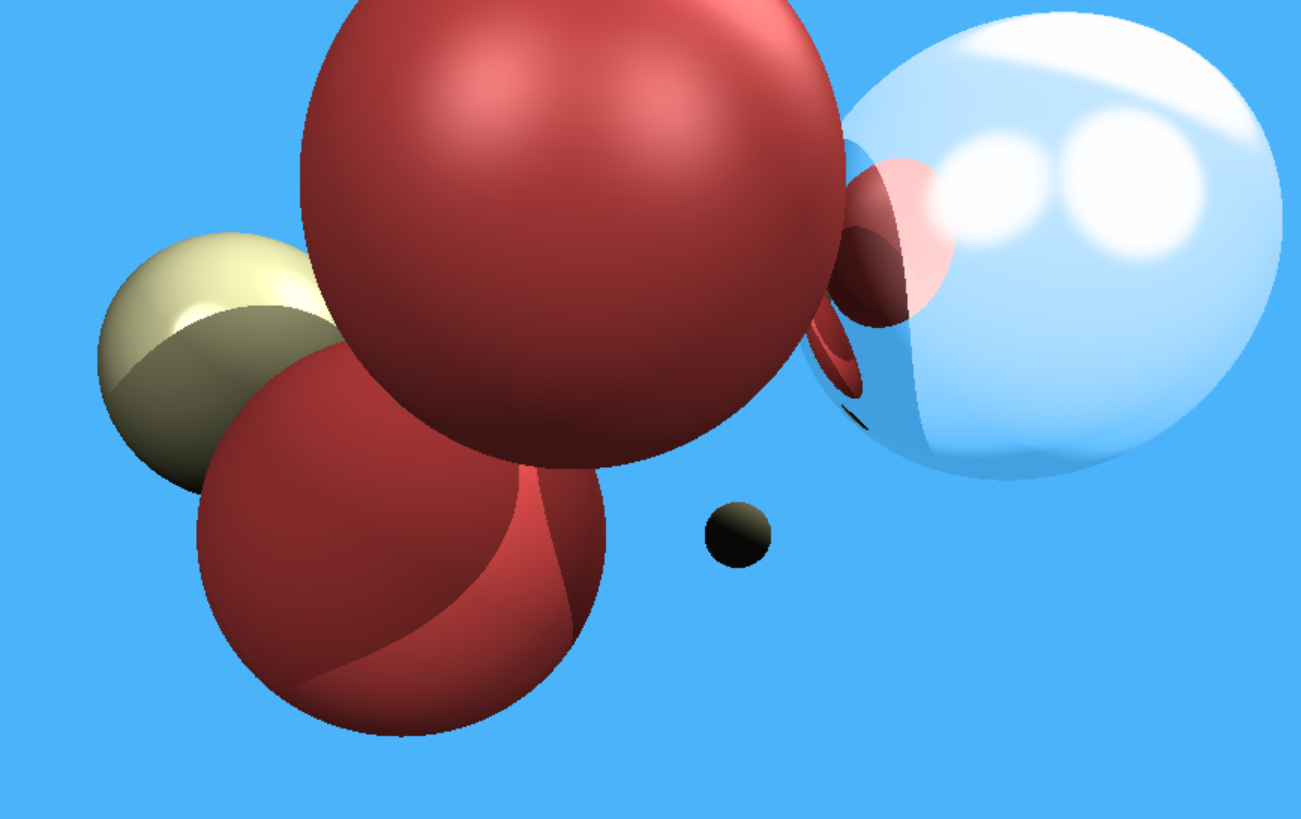
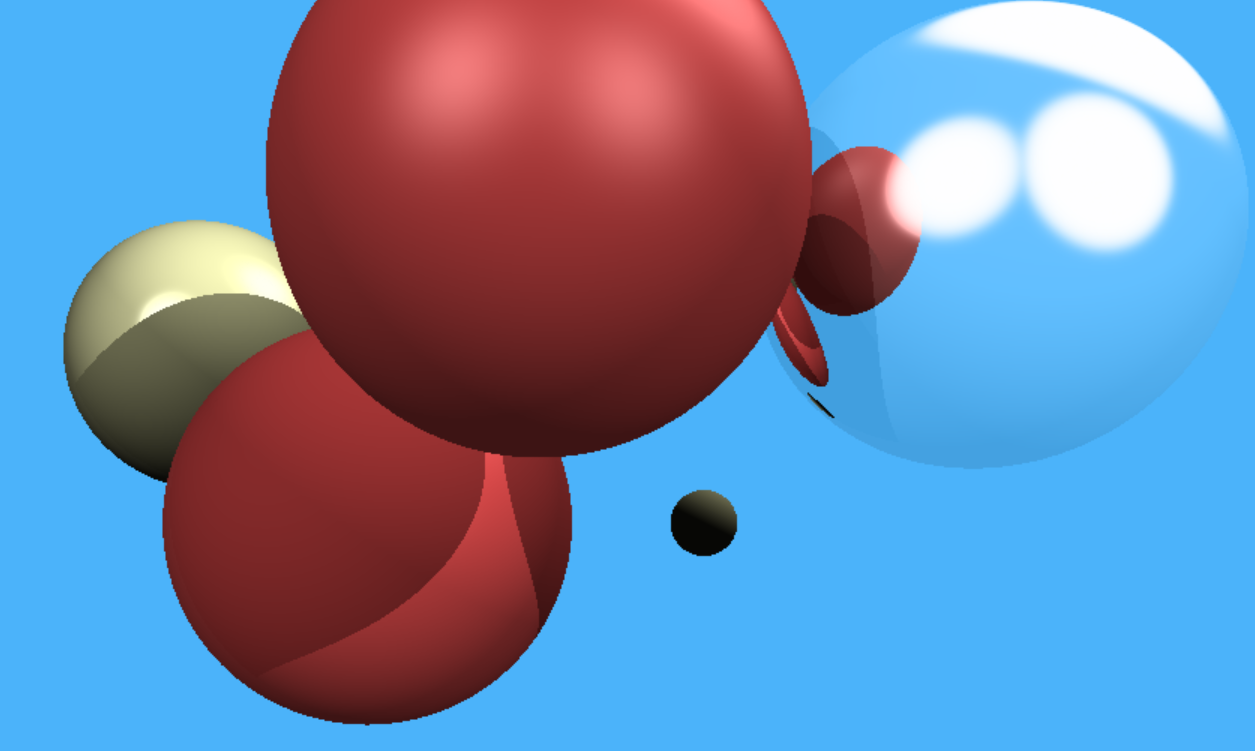
dull glass material

Changed region(s): [[0.5594, 0.0, 0.9944, 0.6431], [0.0311, 0.0, 0.5594, 0.98], [0.5283, 0.6125, 0.5904, 0.735]]

diff --git a/ray_tracer.cpp b/ray_tracer.cpp
@@ -146,7 +146,7 @@ int main() {
 
     Material red(Vec3f(0.3, 0.1, 0.1), 0.8, 0.1, 10, 0);
     Material mat(Vec3f(0.4, 0.4, 0.3), 0.1, 0.3, 40, 0);
-    Material glass(Vec3f(1.0, 1.0, 1.0), 0, 1, 50, 0.9);
+    Material glass(Vec3f(0.1, 0.1, 0.1), 0, 1, 50, 0.9);
 
     spheres.push_back(Sphere(Vec3f(0,5,-15), 4, red));
     spheres.push_back(Sphere(Vec3f(5,0,-30), 1, mat));
